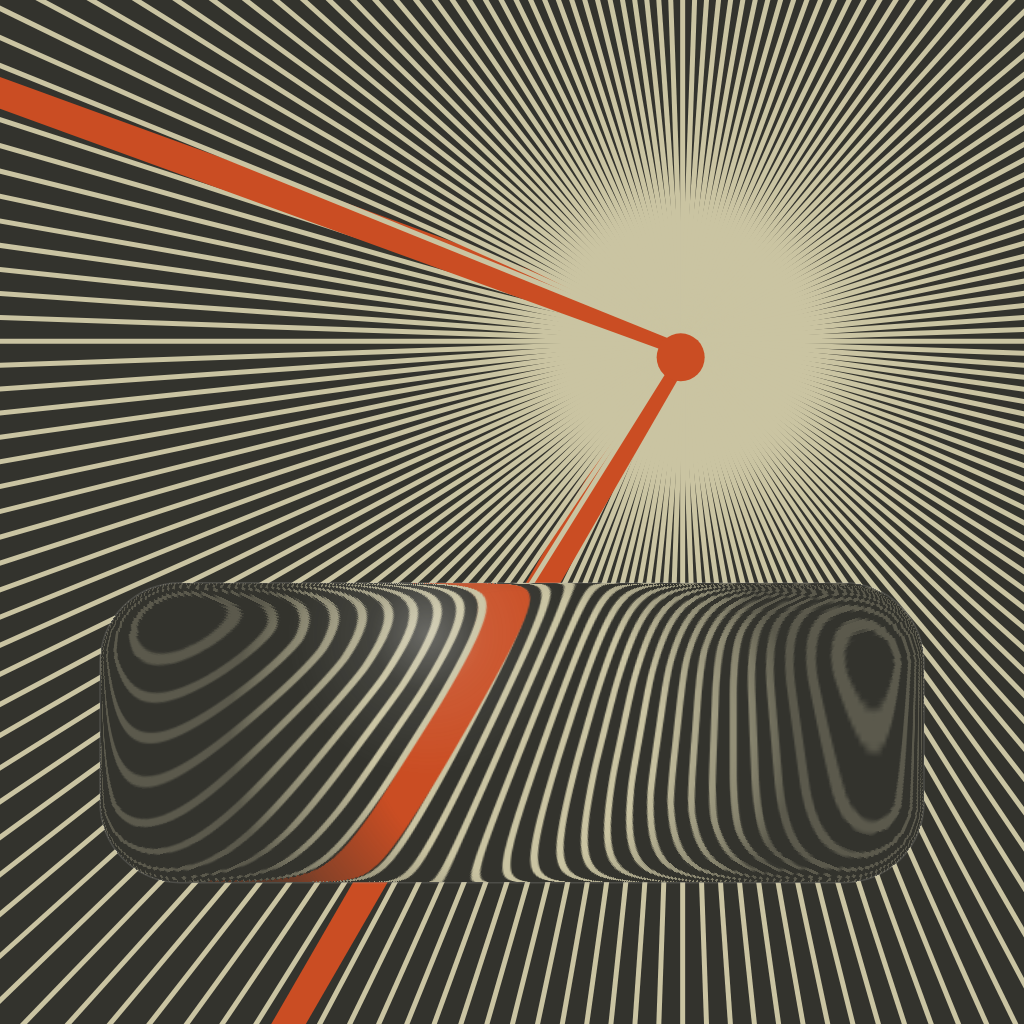
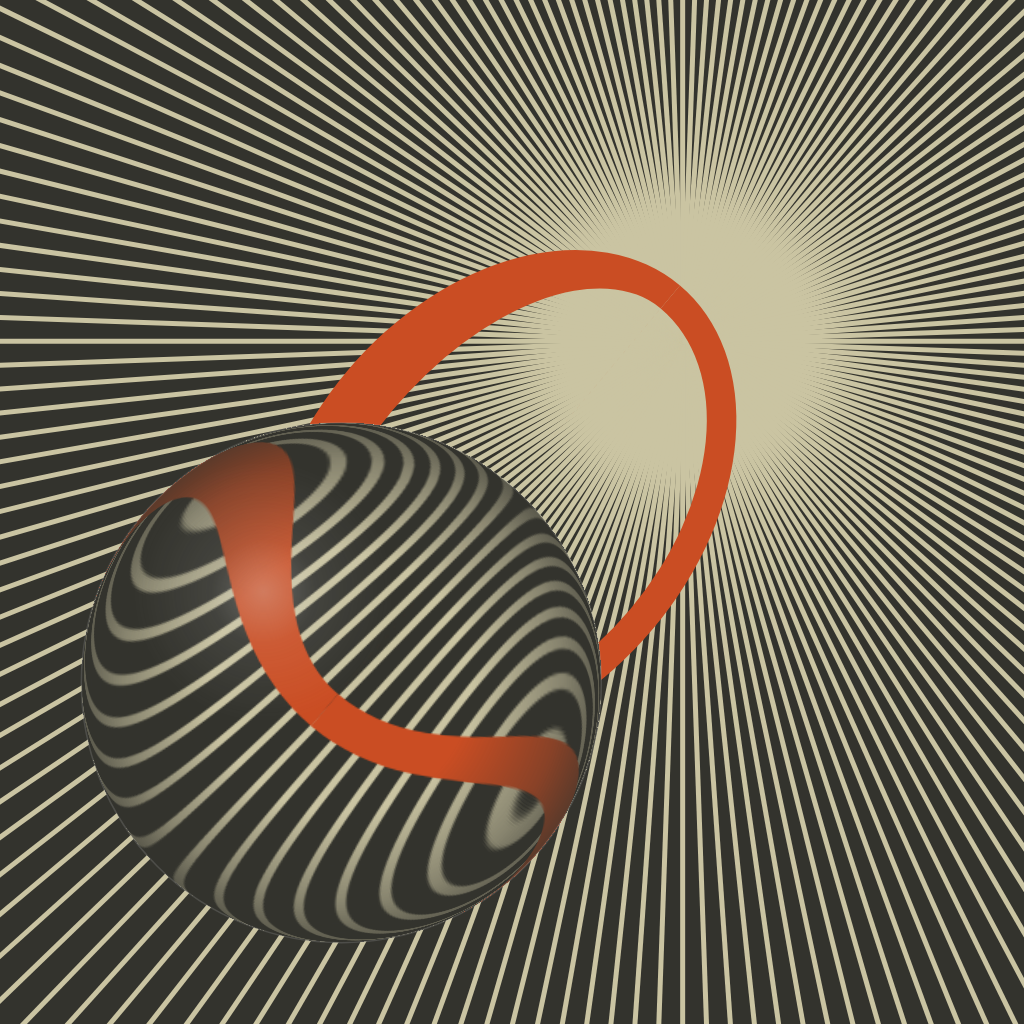
glass

Changed region(s): [[0.0, 0.0625, 0.9062, 1.0]]

diff --git a/arts/pixelmania/src/main/kotlin/dev/oblac/gart/pixelmania/glass/Glass.kt b/arts/pixelmania/src/main/kotlin/dev/oblac/gart/pixelmania/glass/Glass.kt
@@ -4,13 +4,13 @@ import dev.oblac.gart.Dimension
 import dev.oblac.gart.Drawing
 import dev.oblac.gart.Gart
 import dev.oblac.gart.Gartvas
+import dev.oblac.gart.angle.Degrees
 import dev.oblac.gart.color.RetroColors
 import dev.oblac.gart.gfx.Point
+import dev.oblac.gart.gfx.createDrawRing
 import dev.oblac.gart.gfx.fillOf
 import dev.oblac.gart.gfx.strokeOf
-import dev.oblac.gart.glass.drawGlassPath
-import org.jetbrains.skia.Path
-import org.jetbrains.skia.RRect
+import dev.oblac.gart.glass.drawGlassBall
 import kotlin.math.cos
 import kotlin.math.sin
 import kotlin.math.sqrt
@@ -22,7 +22,7 @@ fun main() {
     val w = gart.window()
     val g = gart.gartvas()
 
-    val draw = MyDraw3(g)
+    val draw = GlassDraw(g)
 
     // save image
     g.draw(draw)
@@ -33,7 +33,7 @@ fun main() {
 }
 
 
-private class MyDraw3(g: Gartvas) : Drawing(g) {
+private class GlassDraw(g: Gartvas) : Drawing(g) {
     init {
         draw(g, g.d)
     }
@@ -51,19 +51,29 @@ private fun draw(g: Gartvas, d: Dimension) {
         val angle = Math.toRadians(i * 360.0 / n).toFloat()
         val x2 = p.x + cos(angle) * maxLen
         val y2 = p.y + sin(angle) * maxLen
-        if (i == 60 || i == 100) {
-            c.drawLine(p.x, p.y, x2, y2, strokeOf(30f, RetroColors.red01))
-        } else {
-            c.drawLine(p.x, p.y, x2, y2, strokeOf(5f, RetroColors.white01))
-        }
+        c.drawLine(p.x, p.y, x2, y2, strokeOf(5f, RetroColors.white01))
     }
-    c.drawCircle(p.x - 2, p.y + 16, 24f, fillOf(RetroColors.red01))
+//    c.drawCircle(p.x - 2, p.y + 16, 24f, fillOf(RetroColors.black01))
 
-    // Glass ball / water drop effect
-//    drawGlassBall(g, d.w3, d.h3x2, 260f, baseColor = RetroColors.black01, eta = 1.0 / 1.3)
+    val dr = createDrawRing(
+        Point(500f, 500f),
+        280f,
+        200f,
+        30f,
+        60f,
+        30f,
+        Degrees(-50f)
+    )
+    dr.first(c, fillOf(RetroColors.red01))
+    dr.second(c, fillOf(RetroColors.red01))
+
+
+// Glass ball / water drop effect
+    drawGlassBall(g, d.w3, d.h3x2, 260f, baseColor = RetroColors.black01, eta = 1.0 / 1.3)
 //    drawGlassBall(g, d.w3 + 200f, d.h3x2 - 260f, 160f, baseColor = RetroColors.black01, eta = 1.0 / 1.3)
 
-    val path = Path().addRRect(RRect.makeXYWH(100f, d.h3x2 - 100f, d.w - 200f, 300f, 80f))
-    drawGlassPath(g, path, eta = 1 / 1.2, baseColor = RetroColors.black01)
+//    val path = Path().addRRect(RRect.makeXYWH(100f, d.h3x2 - 100f, d.w - 200f, 300f, 80f))
+//    drawGlassPath(g, path, eta = 1 / 1.2, baseColor = RetroColors.black01)
+
 
 }
